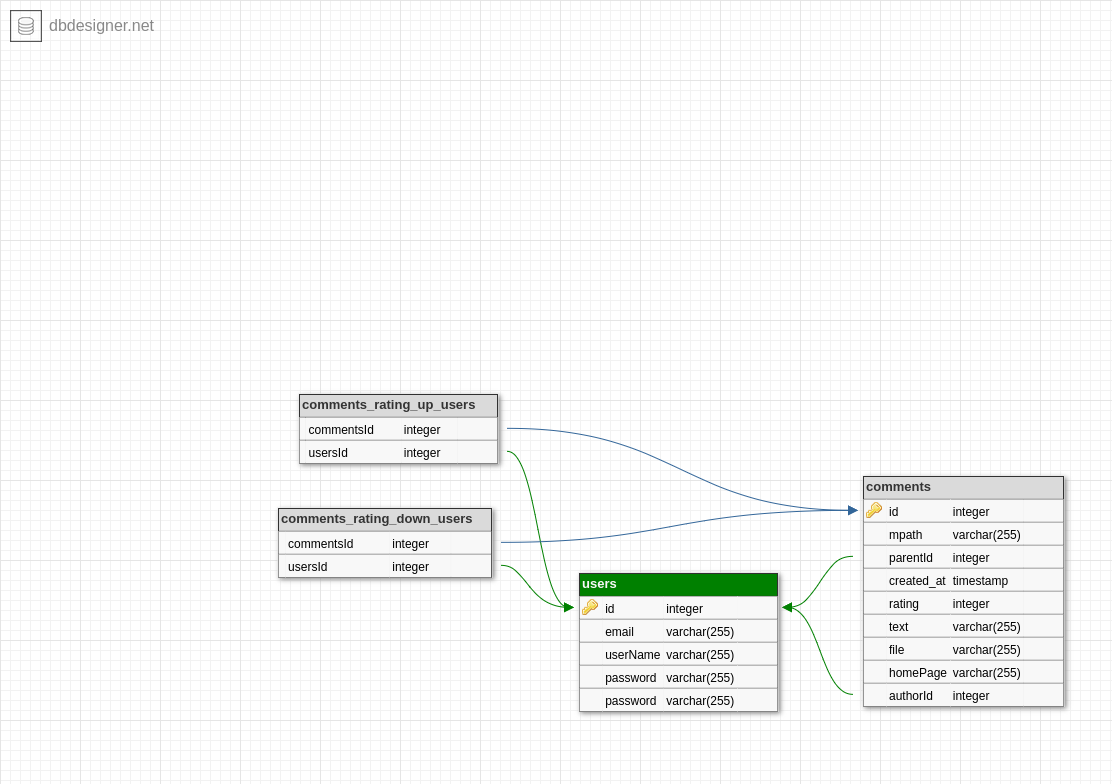
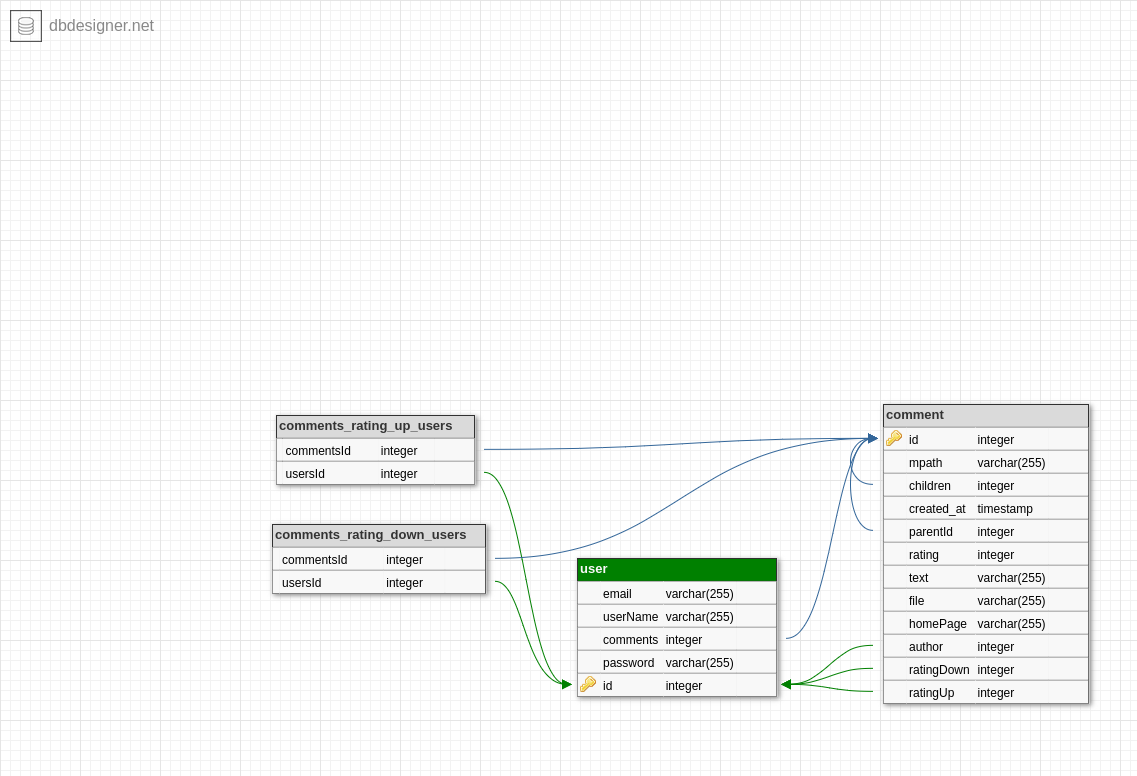
minor fix

diff --git a/src/user/entity/user.entity.ts b/src/user/entity/user.entity.ts
@@ -20,13 +20,10 @@ export class UserEntity {
   userName: string;
 
   @Column()
-  password?: string;
+  password: string;
 
   @OneToMany(() => CommentEntity, (comment) => comment.author)
   comments: CommentEntity[];
-
-  @Column({ nullable: true })
-  access_token: string;
 
   @BeforeInsert()
   async hashPassword() {

diff --git a/README.md b/README.md
@@ -65,7 +65,6 @@ npm run start:prod
     "user": {
         "email": "1@gmail.com",
         "userName": "1",
-        "password": "$2b$10$EjoJkZOfXO9EyhLuyXBEM.KFy2xV.486Hr8BkagP6C.BKFJ4zWFXS",
         "id": 1,
         "token": "eyJhbGciOiJIUzI1NiIsInR5cCI6IkpXVCJ9.eyJpZCI6MSwidXNlck5hbWUiOiIxIiwiZW1haWwiOiIxQGdtYWlsLmNvbSIsImlhdCI6MTY3NTQwNDI0N30.gjXiupqo9Ta9Ba7-wYLuHQCcSnZS1fdXLmYhpJRSY3c"
     }
